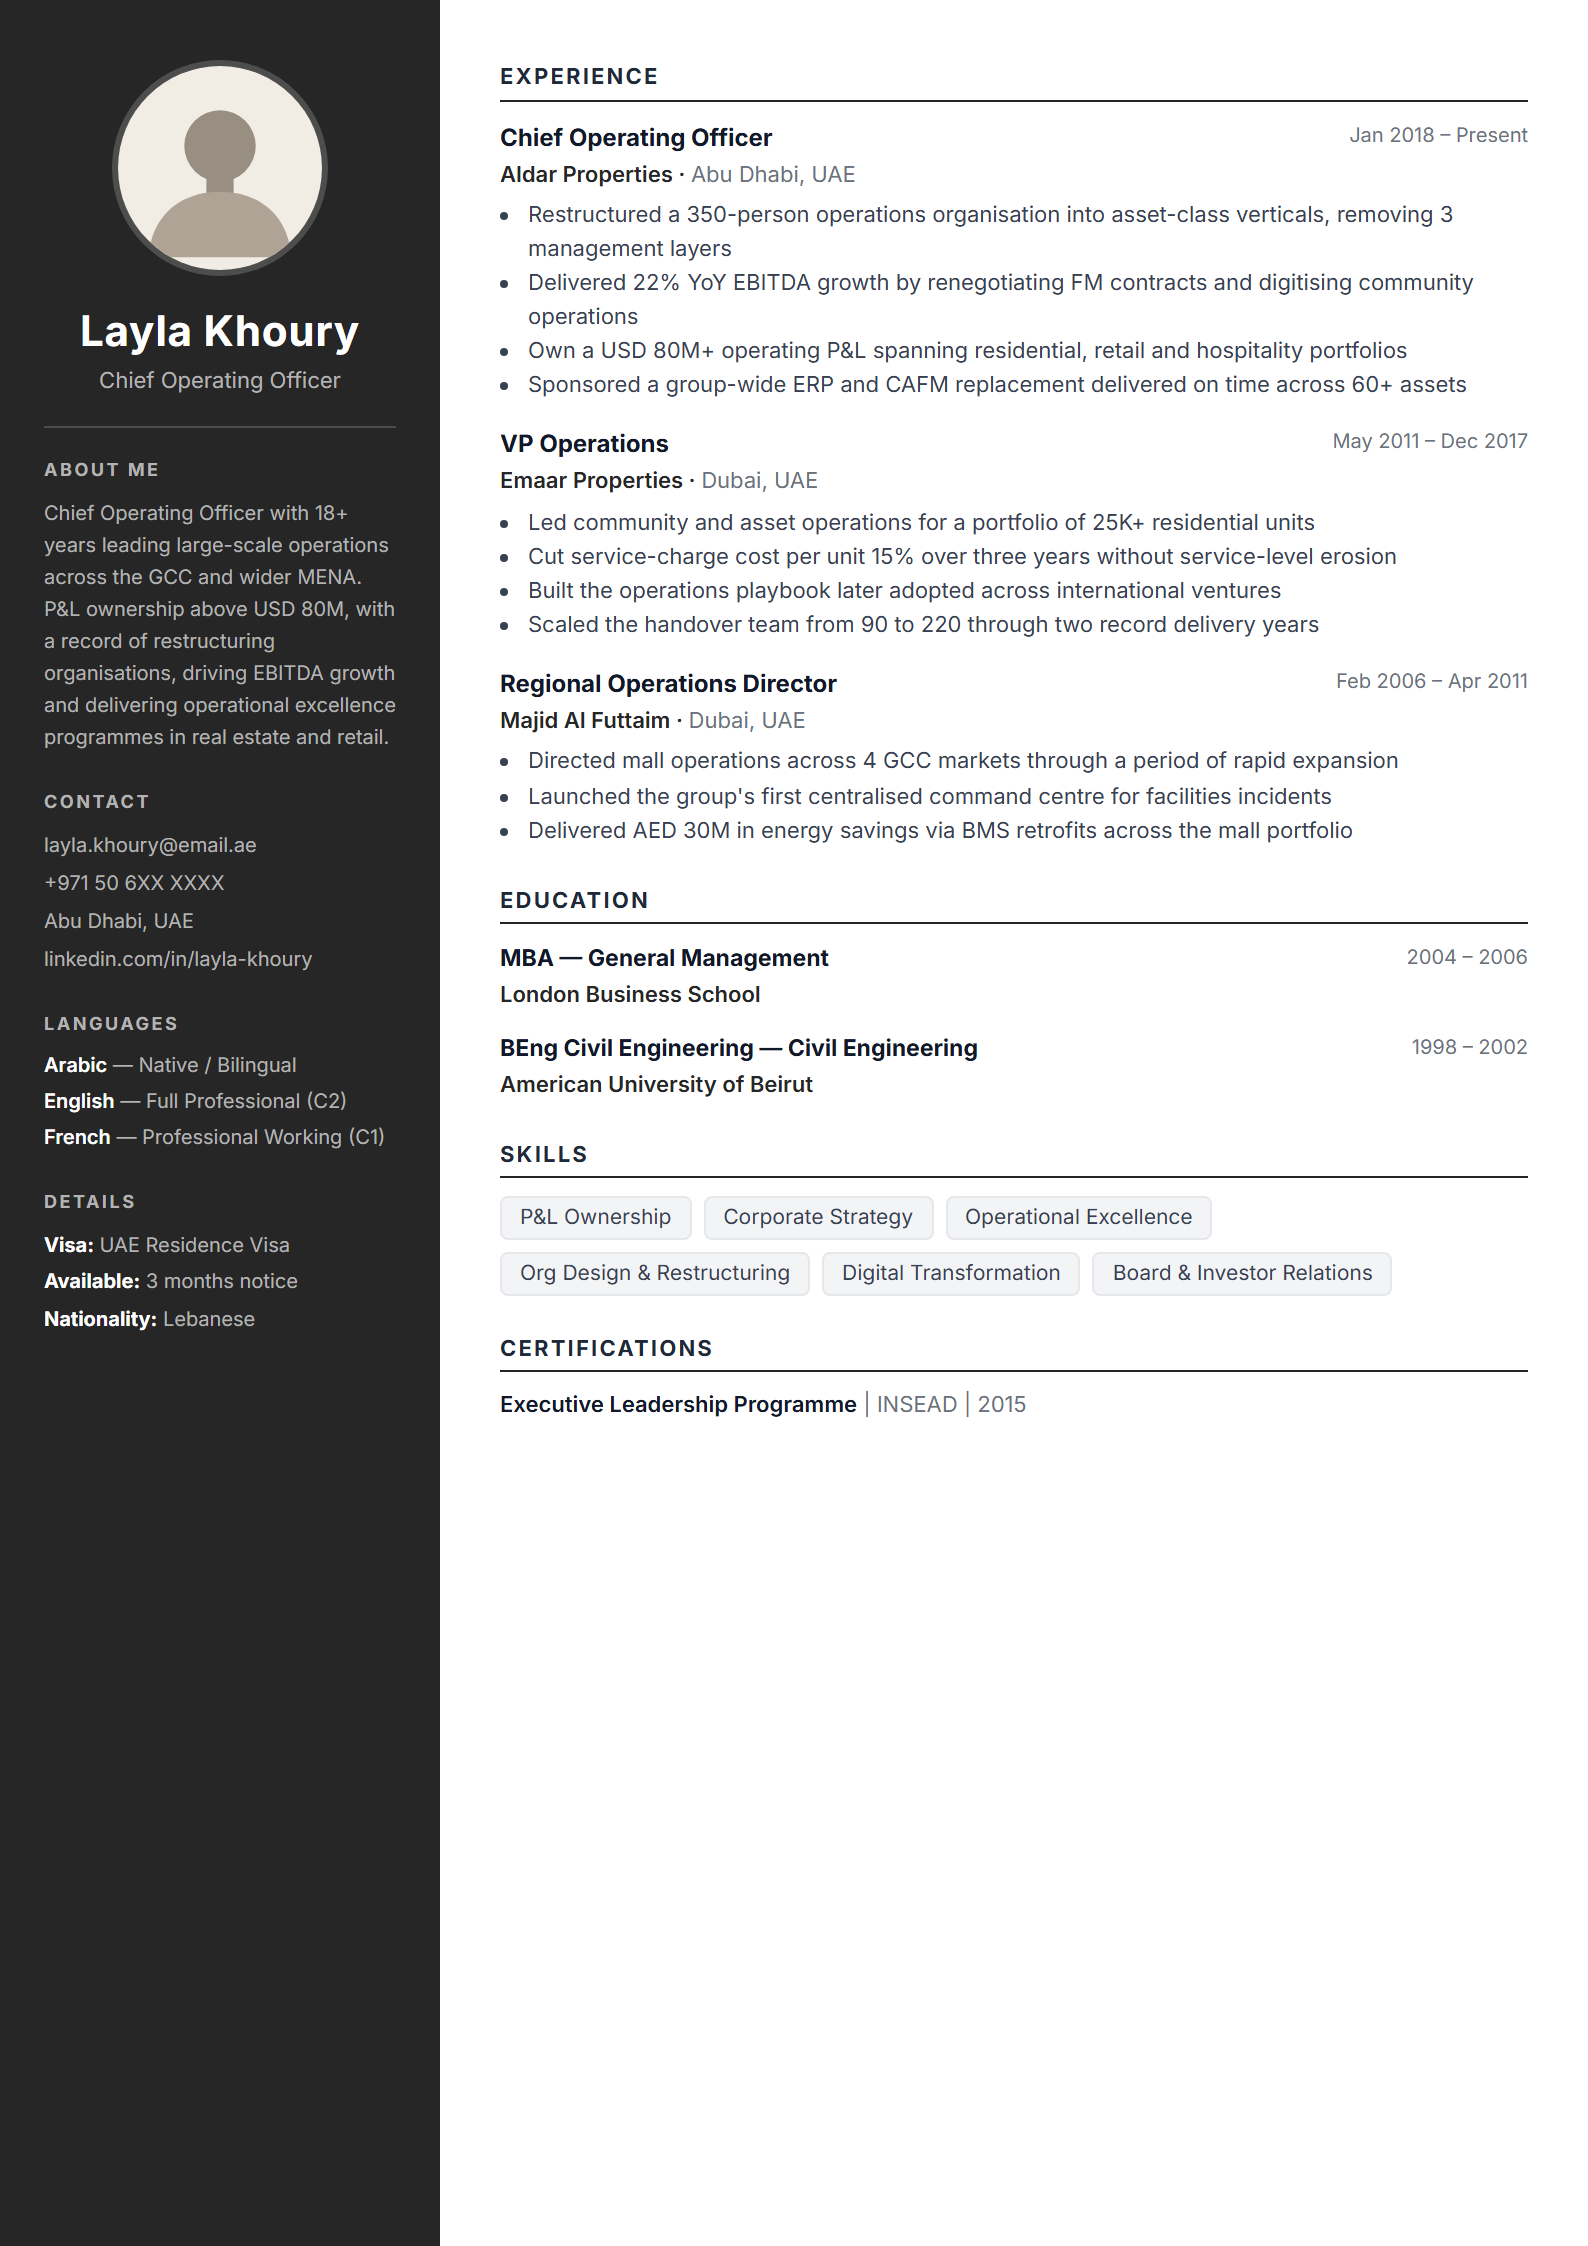
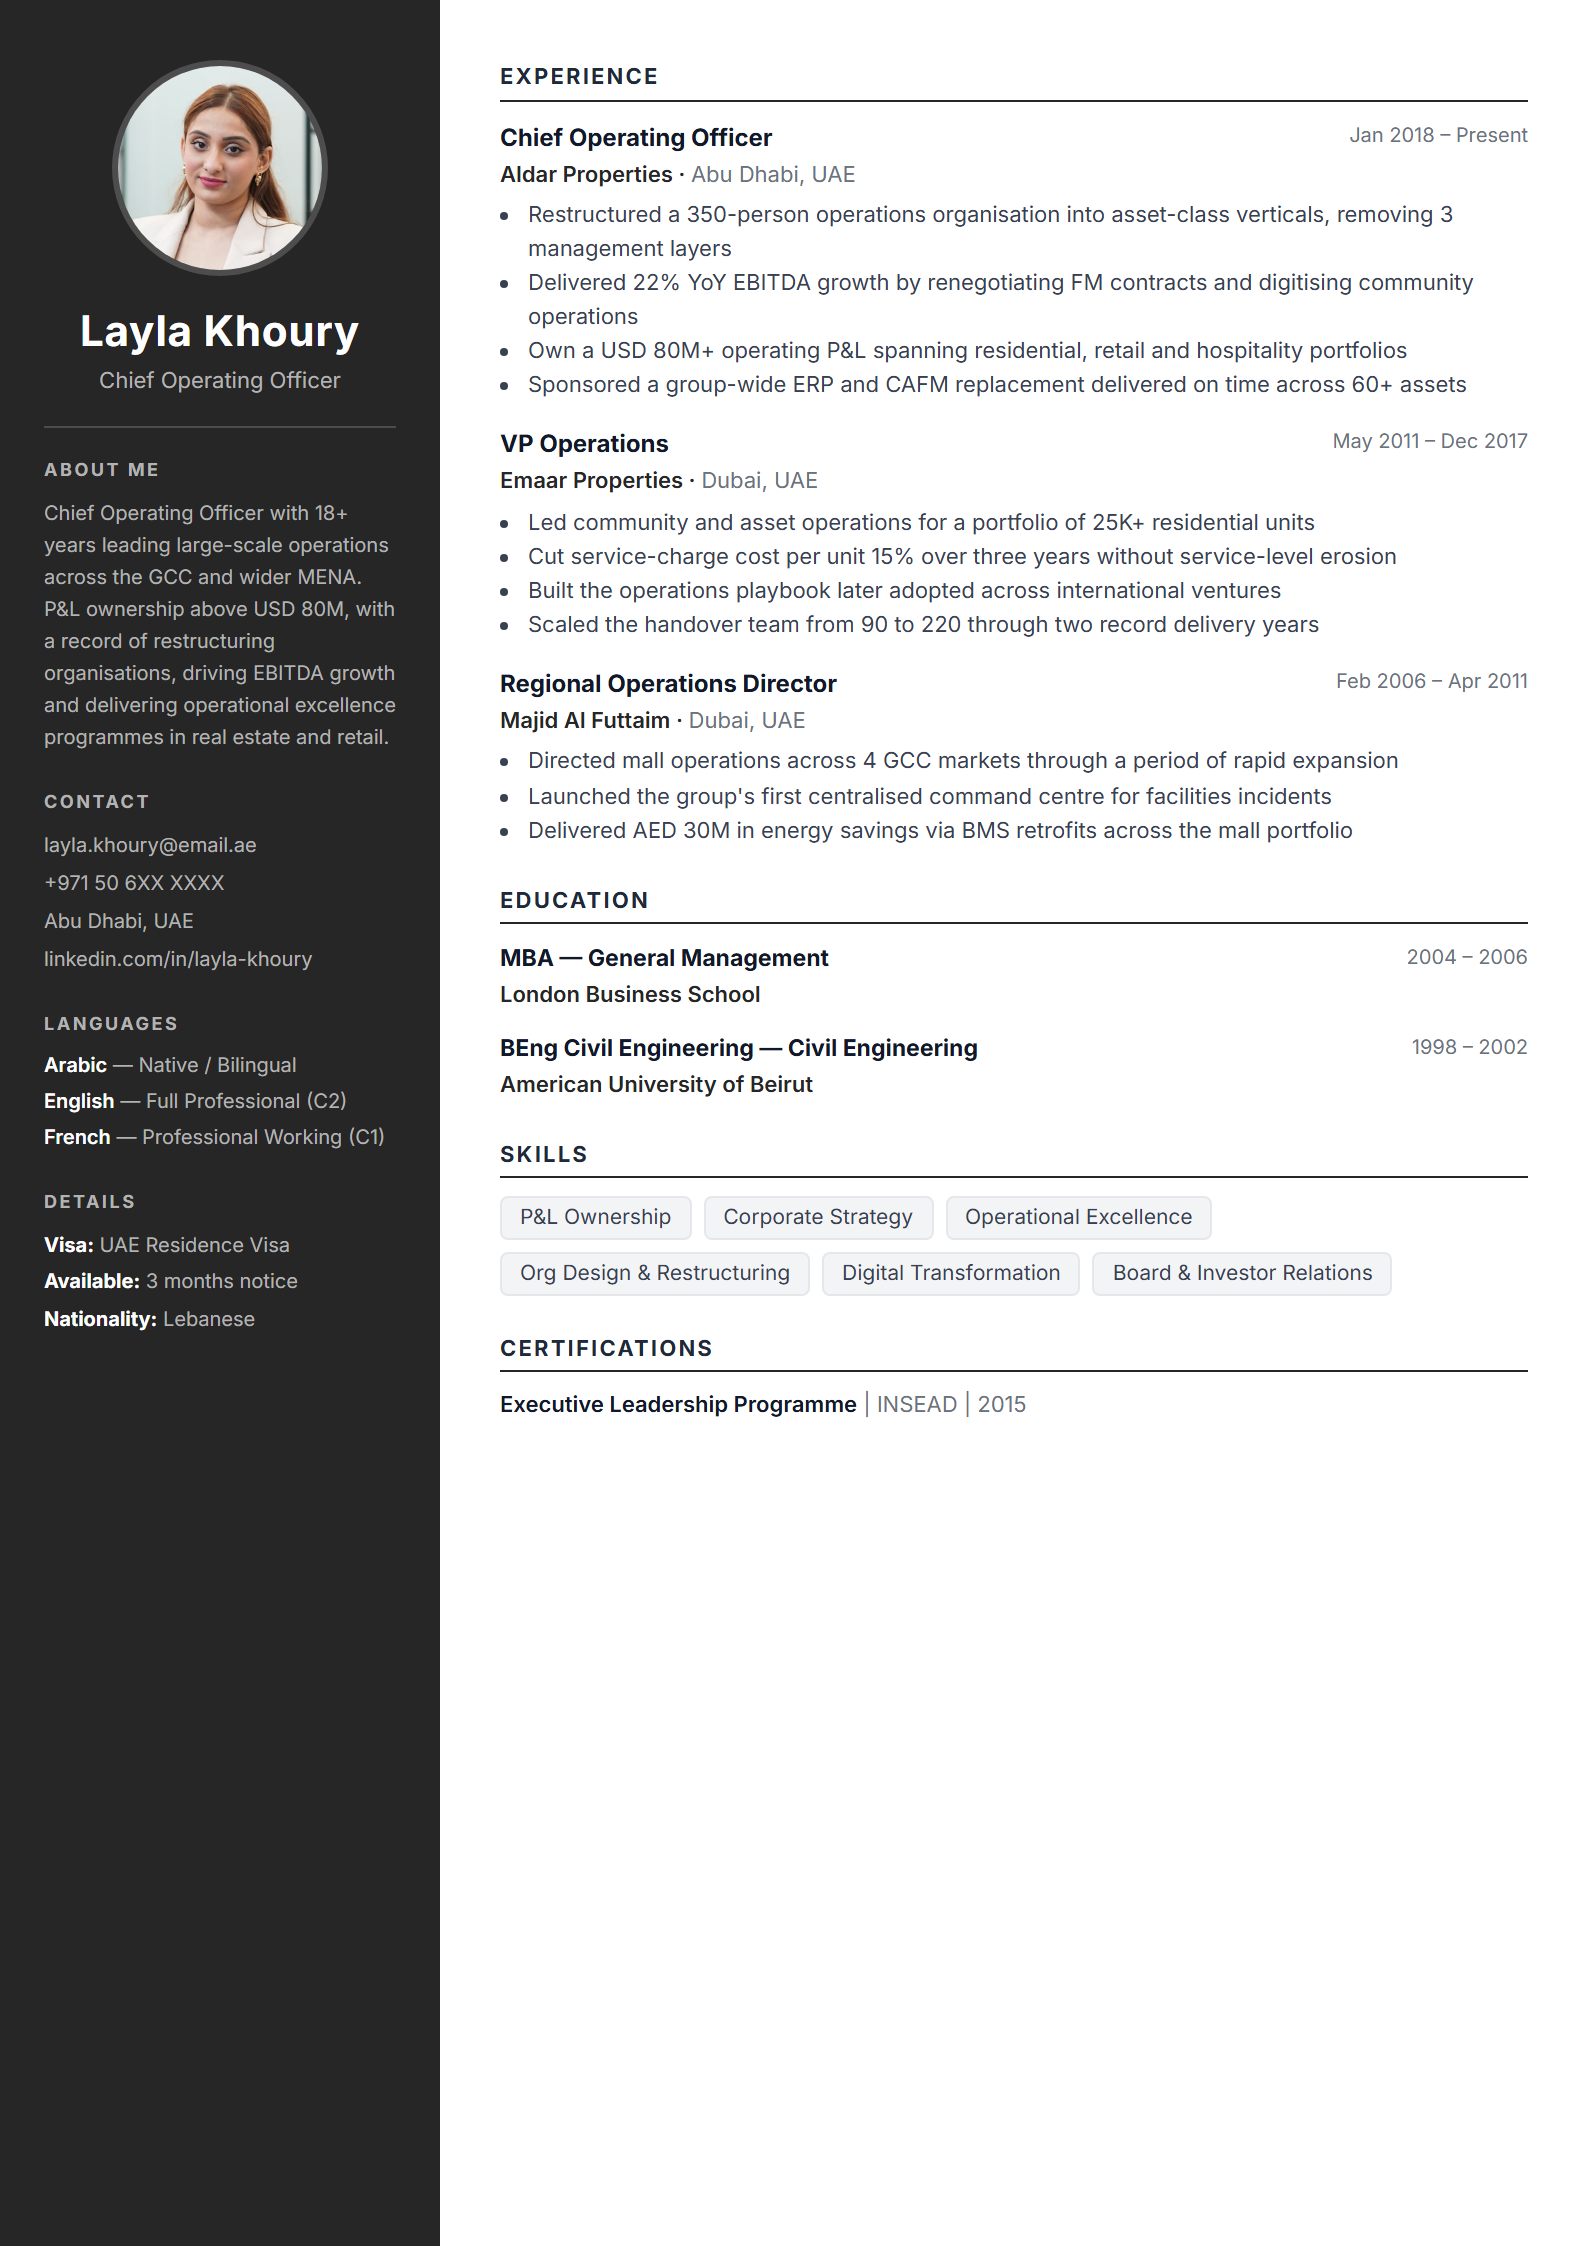
feat(home): fresh template captures with real photo + photo on/off toggle
- all 10 template previews regenerated from the app (stagingmmc 9b26ca4):
  photo-forward templates now show the same real headshot as the hero
- 3 new -nophoto variants (onyx, sandstone, professional-photo)
- shelf cards for photo templates get a CSS-only Hide/Show photo toggle
  (checkbox peer, zero client JS) so users can compare both variants

Changed region(s): [[0.0617, 0.0312, 0.216, 0.1247]]

diff --git a/components/home/TemplateShowcase.tsx b/components/home/TemplateShowcase.tsx
@@ -56,18 +56,53 @@ export function TemplateShowcase() {
                 className="relative overflow-hidden rounded-lg bg-sheet ring-1 ring-line transition-all duration-150 group-hover:-translate-y-1 group-hover:shadow-lg-soft"
                 style={{ aspectRatio: "1 / 1.414", boxShadow: "var(--shadow-sm-soft)" }}
               >
-                {t.thumbnail ? (
-                  // eslint-disable-next-line @next/next/no-img-element -- fixed-size Playwright captures; sized + lazy
-                  <img
-                    src={t.thumbnail}
-                    alt={`${t.name} CV template preview — ${t.positioning}`}
-                    width={794}
-                    height={1123}
-                    loading="lazy"
-                    className="h-full w-full object-cover object-top"
+                {/* Photo templates ship a second, photo-less capture; a
+                    CSS-only checkbox (peer) flips between the two so users
+                    can compare with/without — still zero client JS. */}
+                {t.tags.includes("Photo") && (
+                  <input
+                    type="checkbox"
+                    id={`nophoto-${t.slug}`}
+                    className="peer sr-only"
+                    aria-label={`Show the ${t.name} template without photo`}
                   />
+                )}
+                {t.thumbnail ? (
+                  <>
+                    {/* eslint-disable-next-line @next/next/no-img-element -- fixed-size Playwright captures; sized + lazy */}
+                    <img
+                      src={t.thumbnail}
+                      alt={`${t.name} CV template preview — ${t.positioning}`}
+                      width={794}
+                      height={1123}
+                      loading="lazy"
+                      className="h-full w-full object-cover object-top peer-checked:hidden"
+                    />
+                    {t.tags.includes("Photo") && (
+                      // eslint-disable-next-line @next/next/no-img-element -- fixed-size Playwright captures; sized + lazy
+                      <img
+                        src={t.thumbnail.replace("-preview.png", "-nophoto-preview.png")}
+                        alt={`${t.name} CV template preview without photo`}
+                        width={794}
+                        height={1123}
+                        loading="lazy"
+                        className="hidden h-full w-full object-cover object-top peer-checked:block"
+                      />
+                    )}
+                  </>
                 ) : (
                   <div className="h-full w-full bg-paper-2" />
+                )}
+
+                {/* Photo on/off switch — a label for the hidden checkbox. */}
+                {t.tags.includes("Photo") && (
+                  <label
+                    htmlFor={`nophoto-${t.slug}`}
+                    className="absolute right-2.5 top-2.5 z-10 cursor-pointer select-none rounded-full border border-line bg-sheet/95 px-2.5 py-1 text-[10px] font-semibold text-ink-2 shadow-sm-soft transition-colors duration-150 hover:border-accent hover:text-accent peer-checked:[&_.label-off]:inline peer-checked:[&_.label-on]:hidden peer-focus-visible:ring-2 peer-focus-visible:ring-accent"
+                  >
+                    <span className="label-on">Hide photo</span>
+                    <span className="label-off hidden">Show photo</span>
+                  </label>
                 )}
 
                 {/* Factual badges, top-left on the sheet. */}
